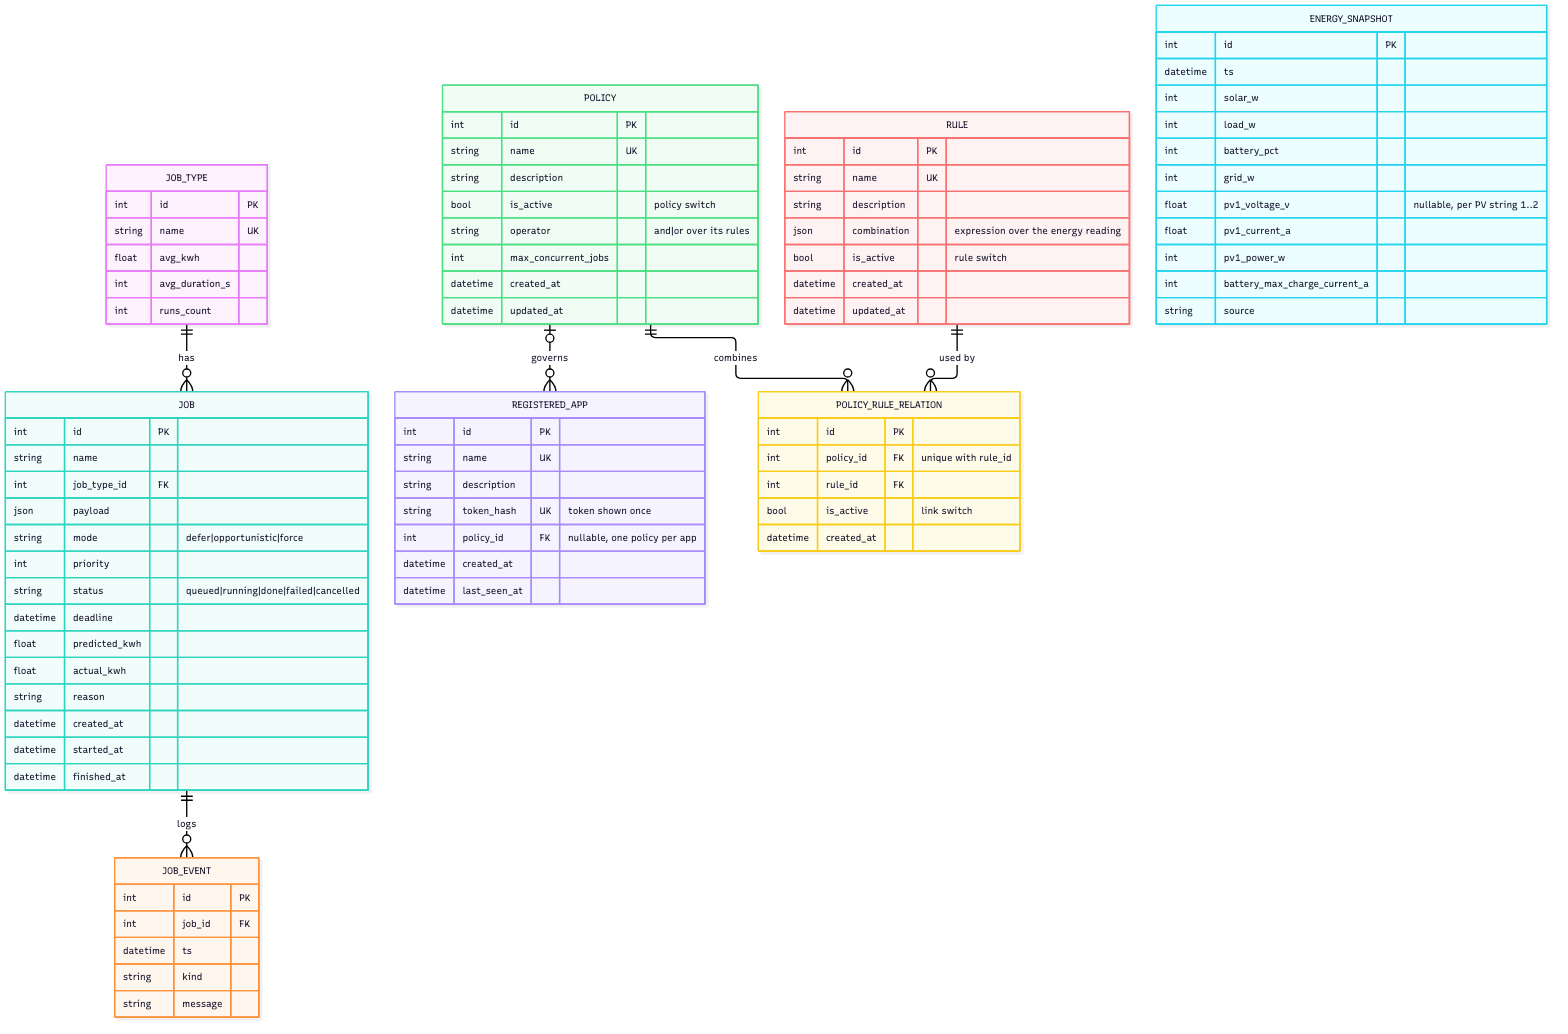
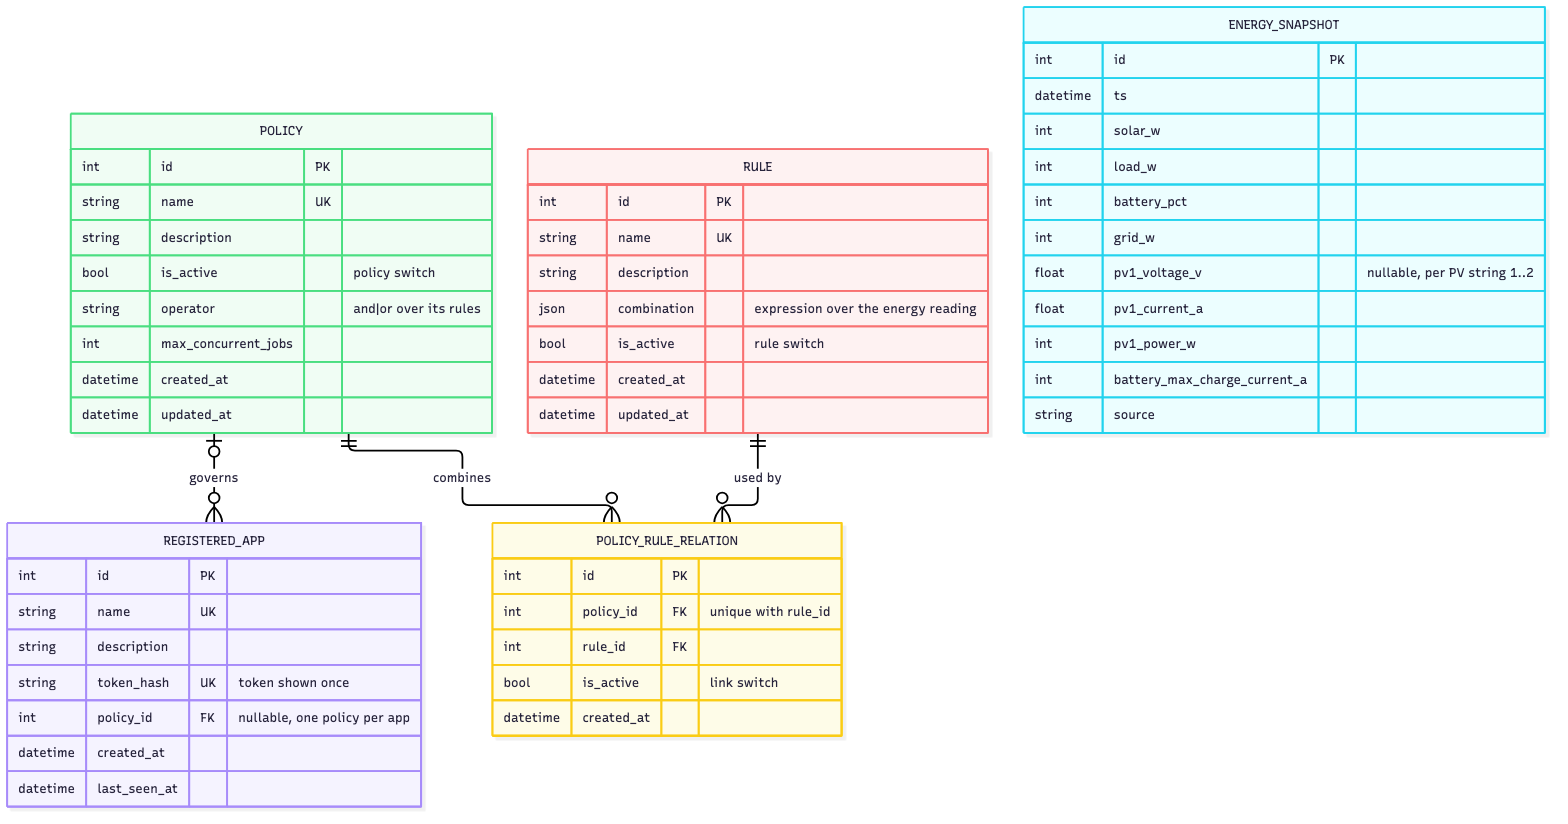
[update] remove old jobs

Changed region(s): [[0.0, 0.0, 1.0, 1.0]]

diff --git a/README.md b/README.md
@@ -4,26 +4,19 @@
 
 **LLM Task Director** is a "dispatcher" service for a home server running local large language models (LLMs) and powered by solar panels.
 
-Heavy background LLM jobs (batch text processing, building embeddings, fine-tuning, research runs) consume a lot of electricity. The idea of the site is to run them when energy is effectively free: the solar panels produce more than the house consumes and the battery is sufficiently charged. If there is not enough energy, a job waits in the queue, and it can be started by force if needed.
+Heavy background LLM work (batch text processing, building embeddings, fine-tuning, research runs) consumes a lot of electricity. The idea of the site is to let it run when energy is effectively free: the solar panels produce more than the house consumes and the battery is sufficiently charged.
 
 What the site contains (business logic):
 
 - **Energy system status** — current solar output, household consumption, battery charge, grid exchange, and the history of these readings.
-- **Job types** — kinds of work (for example "batch generation", "embeddings", "fine-tuning") with their average energy consumption and duration. These figures are refined after every completed run.
-- **Jobs** — concrete tasks submitted by the user for local models. Each job has a mode:
-  - `defer` — run only when there is surplus energy;
-  - `opportunistic` — run on surplus, or when the deadline approaches;
-  - `force` — start immediately regardless of energy.
-- **Energy forecast** — before creating a job you can find out how many kWh and how much time it will likely need.
-- **Registered apps** — external applications that send jobs to the Director. An app is registered manually by the operator and is assigned one active policy; requests from unregistered apps, or from apps without an active policy, are rejected.
+- **Registered apps** — external applications that ask the Director whether they may run now. An app is registered manually by the operator and is assigned one active policy; requests from unregistered apps, or from apps without an active policy, are rejected.
 - **Rules** — reusable conditions over one energy reading, built in the Django admin: arithmetic, comparison and logic operators over the reading's fields (solar output, battery charge, grid exchange, PV strings, weekday, local time …). A rule is True or False.
 - **Policies** — named run configurations: a policy combines its rules with one logic operator (`and` / `or`) into a single True / False and caps how many of the app's jobs may run at once. Rules and policies are many-to-many; rules, policies and each policy↔rule link can be switched on and off (`is_active`). Every app has one policy; a policy can serve many apps.
-- **Dispatcher decisions** — an explanation of why a job was started or why it is waiting, plus an event log for each job.
 
 ## General API rules
 
 - Base URL: `/api/`. All data is exchanged as **JSON** (`Content-Type: application/json`).
-- Resources are plural nouns; actions on a resource that do not fit CRUD are sub-resources (`/jobs/{id}/cancel/`).
+- Resources are plural nouns; actions on a resource that do not fit CRUD are sub-resources (`/apps/{id}/rotate-token/`).
 - Lists support pagination: `?page=1&page_size=20`. List response:
   `{"count": 42, "next": "...", "previous": null, "results": [ ... ]}`.
 - Validation error: `400` + `{"field": ["message"]}`; not authenticated: `401`; forbidden: `403`; not found: `404` + `{"detail": "Not found."}`; state conflict: `409` + `{"detail": "..."}`.
@@ -76,28 +69,6 @@ docker compose up -d db inverter-worker
 docker compose logs -f inverter-worker
 ```
 `uv run python manage.py compare_pv_estimate --date YYYY-MM-DD [--csv out.csv]` is a proof of concept. It compares one day of snapshots with satellite irradiance (Open-Meteo) and the clear-sky ceiling (pvlib), and needs the `PV_SITE_*` keys from `.env.example`.
-
----
-
-### Job types
-
-| Method | URL | Purpose |
-|---|---|---|
-| GET | `/api/job-types/` | List types |
-| POST | `/api/job-types/` | Create a type |
-| GET | `/api/job-types/{id}/` | Get one type |
-| PUT / PATCH | `/api/job-types/{id}/` | Update a type |
-| DELETE | `/api/job-types/{id}/` | Delete a type |
-
-- POST/PUT body:
-```json
-{"name": "embeddings", "avg_kwh": 0.35, "avg_duration_s": 1800}
-```
-- Response `200`/`201`:
-```json
-{"id": 2, "name": "embeddings", "avg_kwh": 0.35, "avg_duration_s": 1800, "runs_count": 0}
-```
-- Statuses: `200` (GET, PUT, PATCH), `201` (POST), `204` (DELETE, no body), `400`, `404`, `409` — a type cannot be deleted while jobs reference it.
 
 ---
 
@@ -162,77 +133,6 @@ docker compose logs -f inverter-worker
 
 ---
 
-### Jobs
-
-| Method | URL | Purpose |
-|---|---|---|
-| GET | `/api/jobs/` | List jobs |
-| POST | `/api/jobs/` | Put a job in the queue |
-| GET | `/api/jobs/{id}/` | Job details |
-| PATCH | `/api/jobs/{id}/` | Update a job (only while `queued`) |
-| DELETE | `/api/jobs/{id}/` | Delete a job (only finished/cancelled) |
-| POST | `/api/jobs/estimate/` | Energy and time forecast |
-| POST | `/api/jobs/{id}/force-start/` | Start by force |
-| POST | `/api/jobs/{id}/cancel/` | Cancel a job |
-| POST | `/api/jobs/{id}/complete/` | Worker reports completion |
-| GET | `/api/jobs/{id}/events/` | Job event log |
-
-**GET `/api/jobs/`**
-- Parameters: `status` (`queued|running|done|failed|cancelled`), `mode` (`defer|opportunistic|force`), `job_type` (id), `ordering` (`priority`, `-priority`, `deadline`, `created_at`), `search` (by name), `page`, `page_size`.
-- Response `200`: paginated list of job objects (format below).
-
-**POST `/api/jobs/`**
-- Body:
-```json
-{"name": "Embed docs batch 7", "job_type": 2, "mode": "defer", "priority": 5,
- "deadline": "2026-10-12T18:00:00Z", "payload": {"model": "bge-m3", "input": "s3://docs/7"}}
-```
-- Response `201`:
-```json
-{"id": 15, "name": "Embed docs batch 7", "job_type": 2, "mode": "defer", "priority": 5,
- "status": "queued", "deadline": "2026-10-12T18:00:00Z",
- "payload": {"model": "bge-m3", "input": "s3://docs/7"},
- "predicted_kwh": 0.35, "actual_kwh": null, "reason": null,
- "created_at": "2026-10-11T10:05:00Z", "started_at": null, "finished_at": null}
-```
-- Errors: `400` (unknown type, invalid mode, deadline in the past).
-
-**GET `/api/jobs/{id}/`** — `200` + job object, `404`.
-
-**PATCH `/api/jobs/{id}/`**
-- Body: any of `name`, `mode`, `priority`, `deadline`, `payload`.
-- Response: `200` + updated object; `400`; `404`; `409` — the job is no longer `queued`.
-
-**DELETE `/api/jobs/{id}/`** — `204`; `404`; `409` — the job is `queued`/`running` (cancel it first).
-
-**POST `/api/jobs/estimate/`**
-- Body: `{"job_type": 2, "payload": {"batch_size": 64}}`
-- Response `200`: `{"predicted_kwh": 0.35, "predicted_duration_s": 1800, "predicted_power_w": 700}`; `400`.
-
-**POST `/api/jobs/{id}/force-start/`**
-- Body: none.
-- Response `200`: job object with `status: "running"` and `reason: "forced by user"`.
-- Errors: `404`; `409` — the job is not `queued`.
-
-**POST `/api/jobs/{id}/cancel/`**
-- Body: none. Response `200`: job object with `status: "cancelled"`; `404`; `409` — the job has already finished.
-
-**POST `/api/jobs/{id}/complete/`**
-- Body: `{"success": true, "actual_kwh": 0.31, "duration_s": 1650}`
-- Response `200`: job object with `status: "done"` (or `"failed"`) and `actual_kwh`. The job type's averages are updated.
-- Errors: `400`; `404`; `409` — the job is not `running`.
-
-**GET `/api/jobs/{id}/events/`**
-- Response `200`:
-```json
-[{"id": 1, "ts": "2026-10-11T10:05:00Z", "kind": "queued", "message": "Job created"},
- {"id": 2, "ts": "2026-10-11T10:06:00Z", "kind": "waiting", "message": "Surplus 300 W < required 700 W"},
- {"id": 3, "ts": "2026-10-11T11:00:00Z", "kind": "started", "message": "Surplus 2300 W, battery 82%"}]
-```
-- `404` if the job does not exist.
-
----
-
 ### Policies
 
 A policy combines rules into one decision and is assigned to apps (see [Registered apps](#registered-apps)). All endpoints are operator-only; rules and policy↔rule links are managed in the Django admin (see [Rules](#rules)).
@@ -284,8 +184,6 @@ A policy combines rules into one decision and is assigned to apps (see [Register
 ```
 - `404` if the policy does not exist.
 
-> Connecting jobs to apps (which policy governs a job) will be added in a later step; until then the Jobs endpoints above are unchanged.
-
 ---
 
 ### Rules
@@ -328,25 +226,6 @@ Example — weekdays, at night, both PV strings together above 2 kW, no grid imp
 
 > `solar_power_w` follows consumption (the panels curtail when nothing uses the power), so a high-solar rule can fail exactly when the battery is full and the house is idle.
 
----
-
-### Dispatcher decisions
-
-| Method | URL | Purpose |
-|---|---|---|
-| GET | `/api/scheduler/decision/` | What the dispatcher would do right now (dry run, nothing is started) |
-
-**GET `/api/scheduler/decision/`**
-- Response `200`:
-```json
-{"energy": {"solar_w": 3200, "load_w": 900, "battery_pct": 82},
- "decisions": [
-   {"job_id": 15, "decision": "START", "reason": "Solar 3200 W, battery above floor"},
-   {"job_id": 16, "decision": "WAIT", "reason": "Concurrent jobs limit reached"}
- ]}
-```
-- `decision` ∈ `START | WAIT | FORCE_START`. `404` if there are no energy snapshots.
-
 ## Database schema
 
 Postgres runs in Docker (`compose.yaml`, connection settings `POSTGRES_*` in `.env`): `docker compose up -d db`, then `uv run python manage.py migrate`. Project tables live in the `apps` schema, Django's built-in tables in `public`.
@@ -357,7 +236,6 @@ The diagram is rendered from [`docs/db-schema.mmd`](docs/db-schema.mmd):
 `npx -y @mermaid-js/mermaid-cli -i docs/db-schema.mmd -o docs/db-schema.png -b white -s 2`.
 
 Relations:
-- one job type → many jobs (`JOB.job_type_id`); one job → many events (`JOB_EVENT.job_id`);
 - one policy → many registered apps (`REGISTERED_APP.policy_id`, nullable; a policy cannot be deleted while apps use it);
 - policies ↔ rules — many-to-many through `POLICY_RULE_RELATION` (`policy_id`, `rule_id`, unique pair). The link has its own `is_active`, and so do every rule and policy; a rule counts for a policy only when the link and the rule are active;
 - `ENERGY_SNAPSHOT` is standalone and append-only: every evaluation reads the inverter live, saves the reading, and evaluates the app's policy against it.

diff --git a/src/director_app/AGENTS.md b/src/director_app/AGENTS.md
@@ -4,7 +4,7 @@
 
 - README domain, mounted at `api/` in `config/urls.py`
 - Implemented: registered apps (one policy each), policies, rules (admin-only), policy evaluation (`/api/apps/…`, `/api/policies/…`, `/admin/director_app/…`)
-- Not yet: job types, jobs, forecasts, dispatcher decisions, `JobConsumption`
+- Not yet: jobs (old job types / jobs / job events / dispatcher design removed; new design pending), `JobConsumption`
 
 ## Ownership
 
@@ -50,10 +50,10 @@
 - `grid_power_w`: positive = grid import, negative = export
 - No surplus rule: panels curtail output when nothing consumes it, so `solar - load` does not show available power; don't add `surplus_threshold_w`-style rules back
 - `parse_bool()` accepts `true`/`false`/`1`/`0` (case-insensitive), anything else → `400`
-- `max_concurrent_jobs` is stored but not evaluated until jobs are linked to apps
+- `max_concurrent_jobs` is stored but not evaluated; kept for the new jobs design
 - Policies have no predicted-energy limits (no `max_job_kwh`, `daily_budget_kwh`, `max_force_kwh`): job energy can't be predicted reliably; energy figures come from measured `JobConsumption` history
 - Planned model `JobConsumption` — measured energy of one job run, one row per run:
-  - `job` FK (and `app` FK once Job ↔ RegisteredApp exists), `started_at`, `finished_at`
+  - links to a run in the new jobs design (and to its `app`), `started_at`, `finished_at`
   - `method`: `inverter_delta` (household load from `EnergySnapshot` ledger during the run minus the baseline before start; noisy, other loads leak in) or `host_reported` (power reported by the PC itself, e.g. GPU/CPU sensors)
   - `energy_wh`, `avg_power_w`, `peak_power_w`, `baseline_load_w`, `sample_count`; `host_metrics` JSON for raw PC data
   - Experimental follow-up: a recommendation system trained on `JobConsumption` + `EnergySnapshot` history that suggests run windows, policy thresholds and PC load settings (batch size, power cap) to balance PC and inverter load

diff --git a/CLAUDE.md b/CLAUDE.md
@@ -26,6 +26,7 @@ add short description of acquired knowledge here in bulleted list:
 - Never connect to Postman cloud: no Postman MCP, no cloud push/publish/monitors/mocks, no Postman CLI runs (they report runs to the cloud by default); the user tests locally by opening `postman/` in the Postman app, so after changing the collection say which requests to run there
 - DB is a shared Postgres container (`compose.yaml`, `docker compose up -d db` must run before `migrate`/tests); app tables go to schema `apps` via `Meta.db_table = apps_table(...)` (`src/utils/db.py`), Django tables stay in `public`; each app owns its migrations (developed in parallel); `db.sqlite3` is the legacy DB — never delete it
 - Surplus can't be computed as `solar - load`: solar panels curtail output when nothing consumes it, so solar power reflects consumption, not availability; the `surplus_threshold_w` policy rule was removed for this reason
+- The old jobs design (job types, jobs, job events, `/api/scheduler/decision/` dispatcher, defer/opportunistic/force modes, kWh estimates) was removed from README/schema as outdated; a new jobs architecture is being designed. `Policy.max_concurrent_jobs` and the `JobConsumption` idea are kept for it
 
 ## Scope discipline
 - Implement only the fields and enums I ask for. Propose extra fields (e.g. content_type) as suggestions, and don't add them to code.

diff --git a/AGENTS.md b/AGENTS.md
@@ -76,7 +76,7 @@ Default section order:
 
 ## Project
 
-- LLM Task Director: Django + DRF service that schedules home-server LLM jobs on solar surplus; README.md is the target API contract (much of it not implemented yet)
+- LLM Task Director: Django + DRF service that decides whether registered home-server LLM apps may run, from policies over live solar inverter readings; README.md is the API contract
 - Stack: Python 3.11+, Django 5.2, DRF, django-filter, pydantic, structlog, pysolarmanv5, pvlib (+pandas), requests; deps managed by `uv` (`pyproject.toml`, `uv.lock`)
 - DB: shared Postgres 17 from `compose.yaml` (`db` service; start with `docker compose up -d db`, needed for tests too), connection from `POSTGRES_*` in `.env`; project tables in schema `apps`, Django's own in `public`; `db.sqlite3` is the legacy pre-Postgres DB, kept untouched (never delete); settings module `config.settings`
 - Secrets/env: `.env` (untracked) loaded via `python-dotenv`; keys listed in `.env.example`
